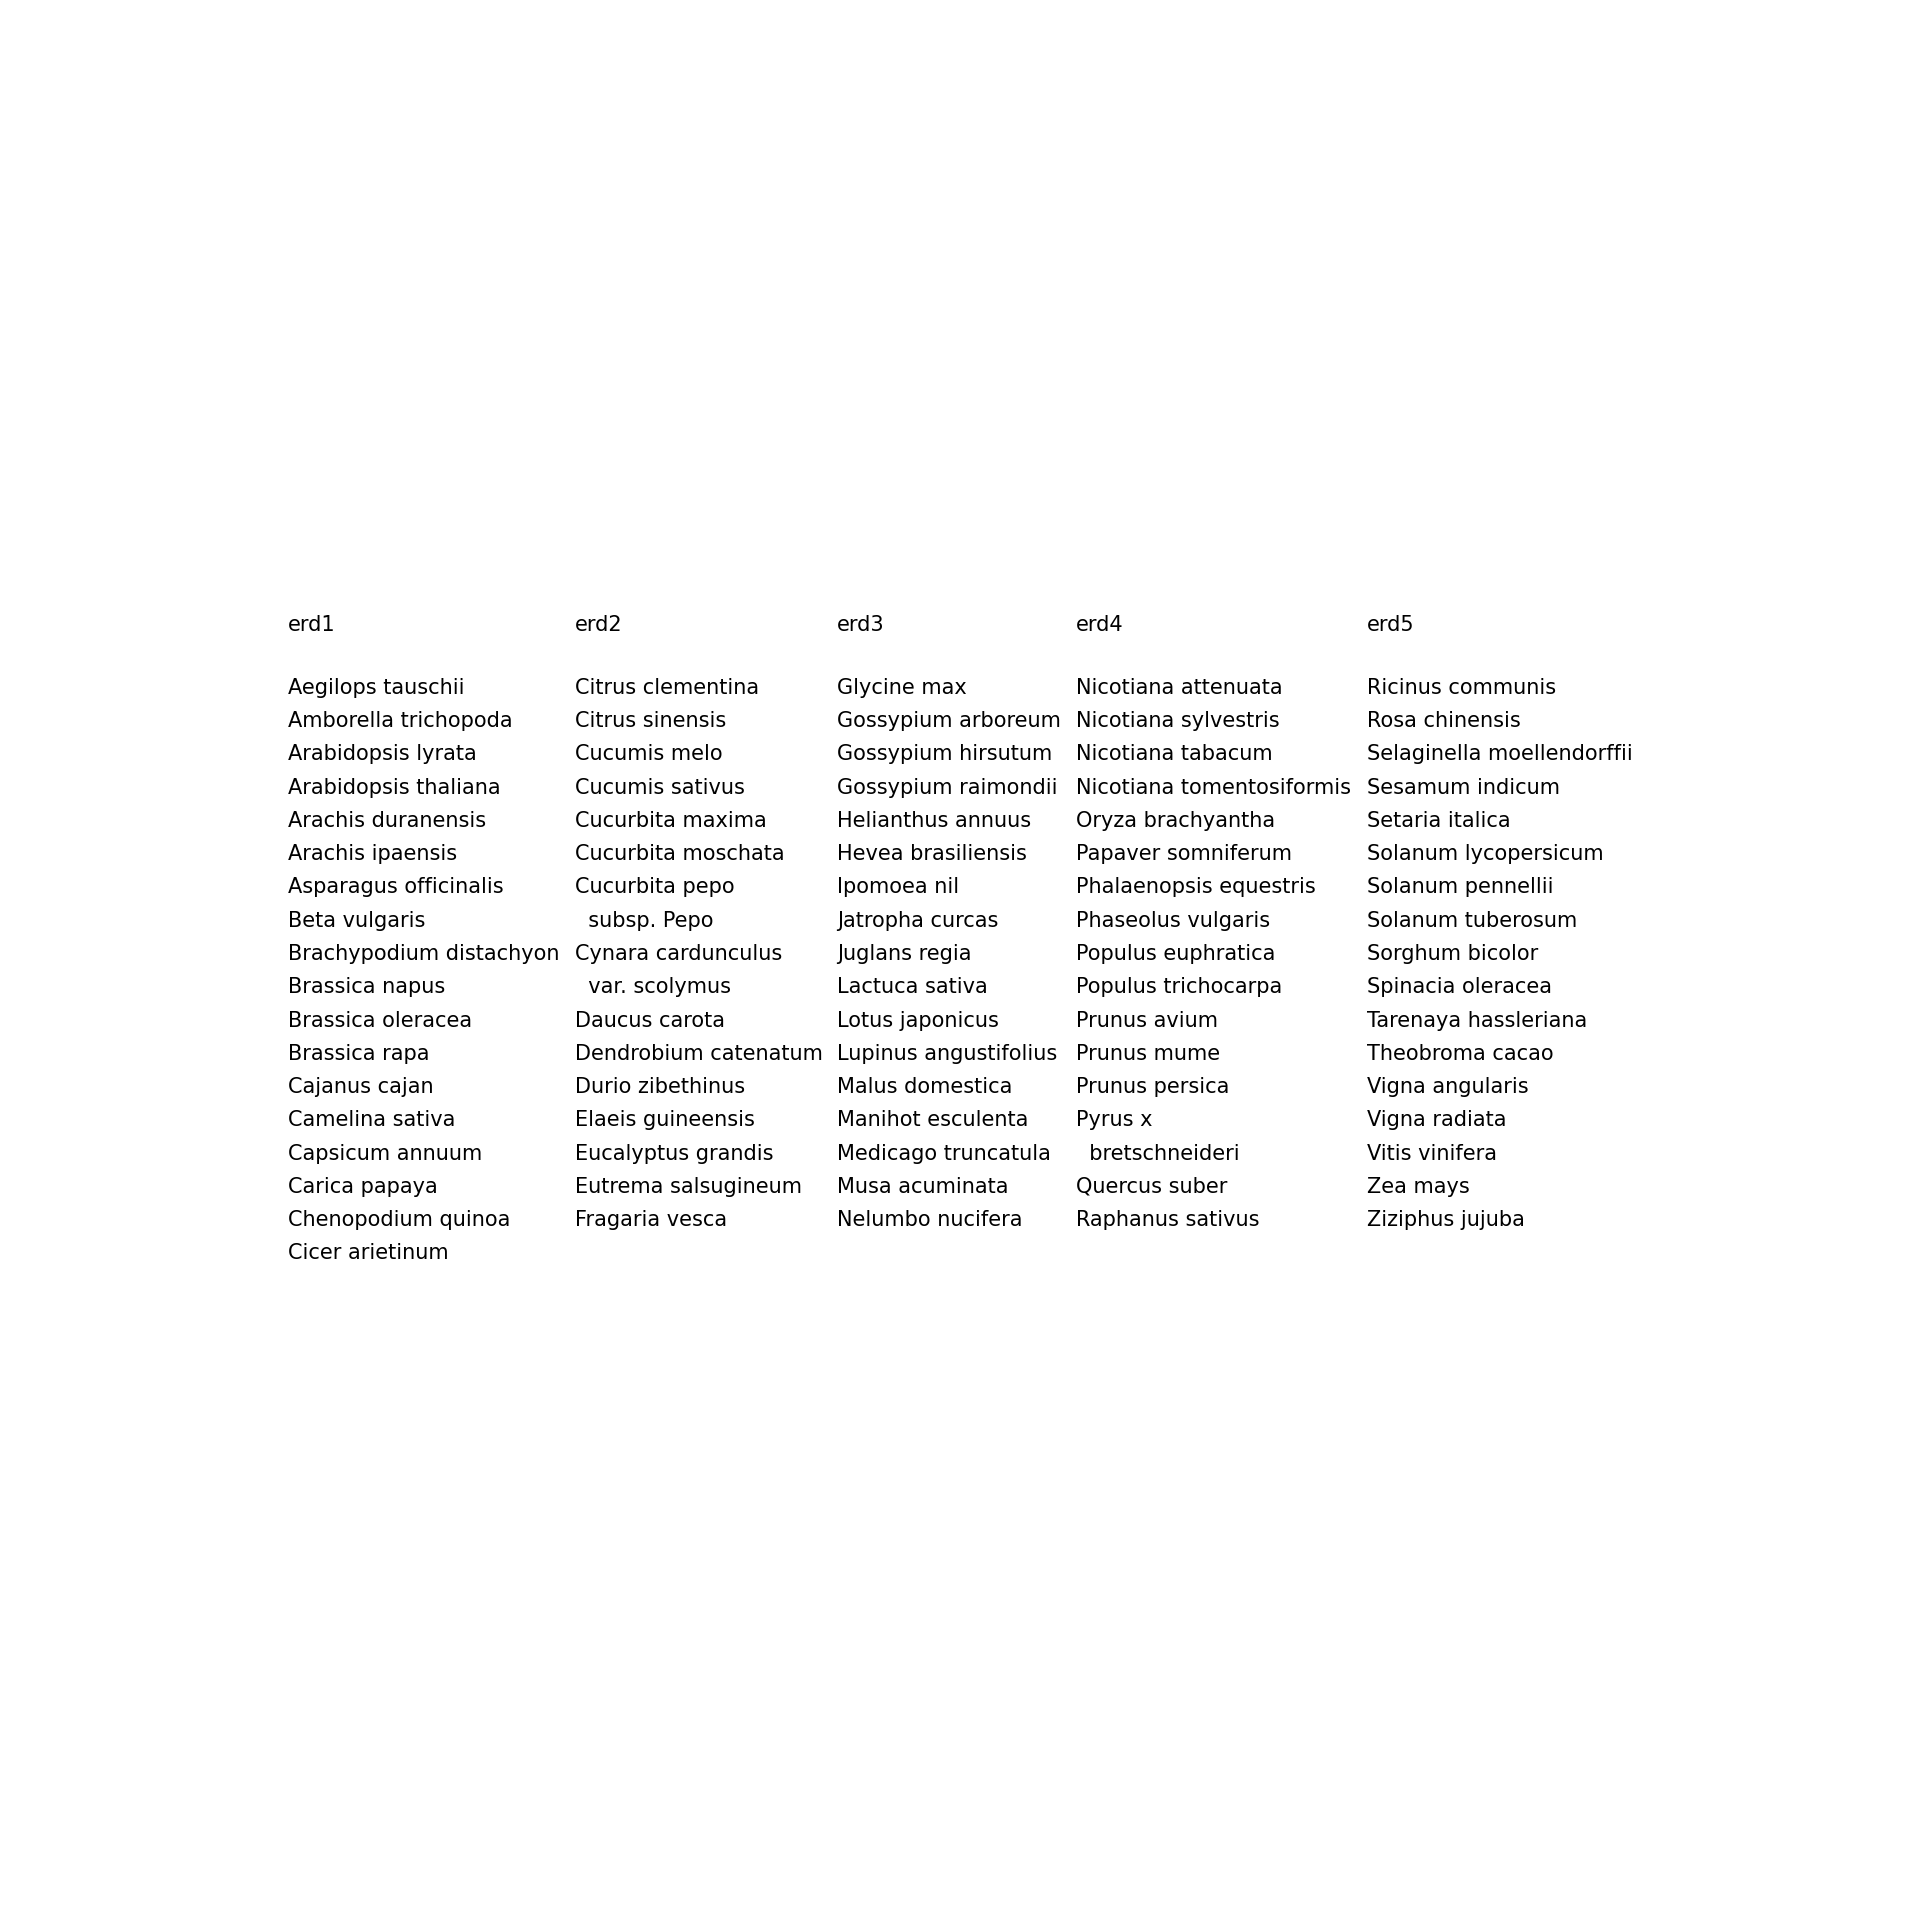
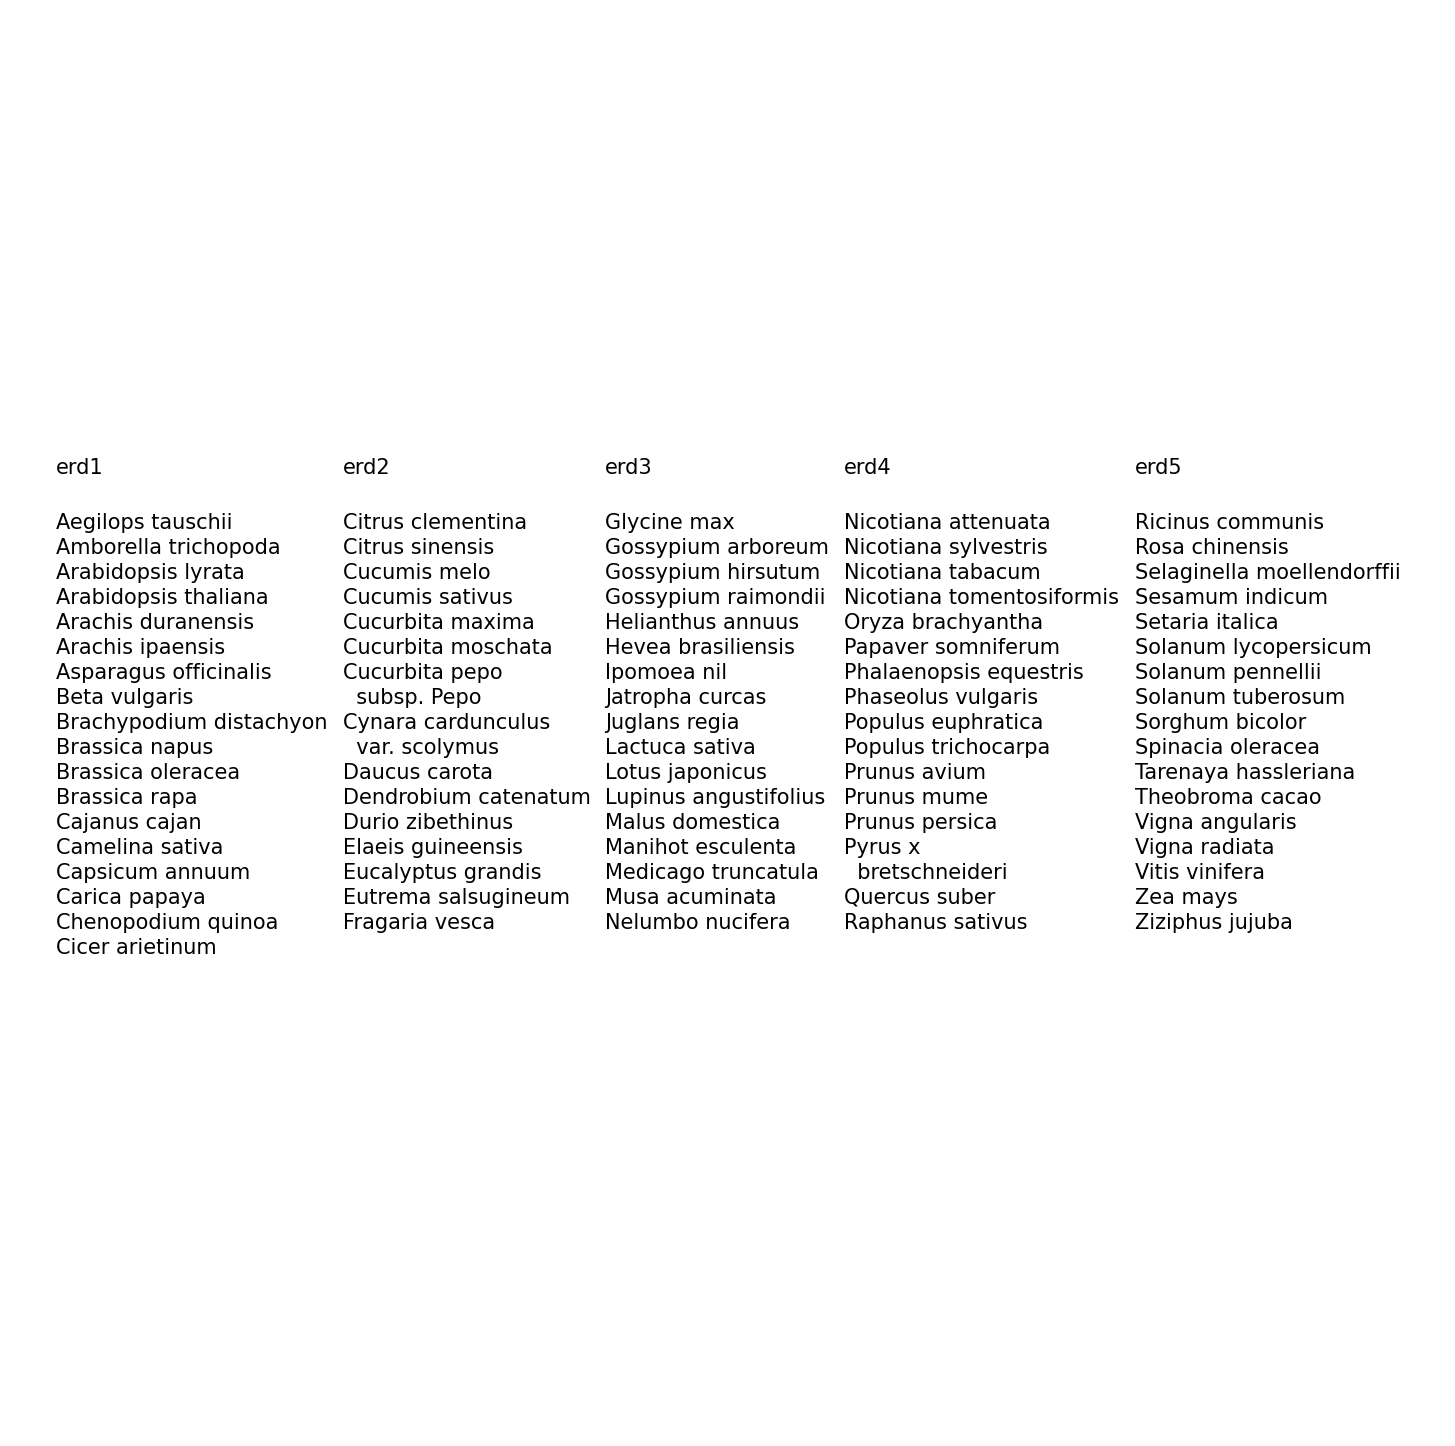
.

Changed region(s): [[0.0309, 0.3112, 0.9588, 0.6846]]

diff --git a/projects/current/flavonoid/data-rep/data-rep.py b/projects/current/flavonoid/data-rep/data-rep.py
@@ -40,20 +40,23 @@ def tab3(df):
         lit = df.loc[df[comp] == 'lit'][comp].index.values.tolist()
         rel = df.loc[df[comp] == 'rel'][comp].index.values.tolist()
 
+        kegg = mod_list(kd + lk + rk)
+
         for i in range(len(rk)): rk[i] = rk[i] + '*'
         for i in range(len(rel)): rel[i] = rel[i] + '*'
 
-        kegg = mod_list(kd + lk + rk)
         lit = mod_list(lit + lk + rk + rel)
-        ln = len(kegg) // 4
+        both = mod_list(lk + rk)
 
         kegg = np.array_split(np.array(kegg), 5)
         lit = np.array_split(np.array(lit), 5)
-
+        both = np.array_split(np.array(both), 5)
         mxlen = max(len(kegg[0]), len(kegg[1]), len(kegg[2]), len(kegg[3]), len(kegg[4]))
         mxlen2 = max(len(lit[0]), len(lit[1]), len(lit[2]), len(lit[3]), len(lit[4]))
+        mxlen3 = max(len(both[0]), len(both[1]), len(both[2]), len(both[3]), len(both[4]))
         comp_df = pd.DataFrame({'del': np.arange(mxlen)})
         comp_df2 = pd.DataFrame({'del': np.arange(mxlen2)})
+        comp_df3 = pd.DataFrame({'del': np.arange(mxlen3)})
         cnt = 1
         for k in kegg:
             k = k.tolist() + gen_empty(mxlen - len(k.tolist()))
@@ -68,8 +71,15 @@ def tab3(df):
             cnt += 1
         comp_df2 = comp_df2.drop(columns=['del'])
 
+        cnt = 1
+        for b in both:
+            b = b.tolist() + gen_empty(mxlen3 - len(b.tolist()))
+            comp_df3[comp.lower() + str(cnt) + '\n\n\n'] = b
+            cnt += 1
+        comp_df3 = comp_df3.drop(columns=['del'])
+
         print(comp_df)
-        plt.figure(figsize=(8, 8))
+        plt.figure(figsize=(6, 6))
         tab = plt.table(cellText=comp_df.values, colLabels=comp_df.columns, loc='center', cellLoc='left', colLoc='left',
                         edges='open')
         plt.axis('off')
@@ -83,7 +93,7 @@ def tab3(df):
         for col in range(len(comp_df.columns)): tab.auto_set_column_width(col)
         plt.savefig('tab3/kegg-' + comp.lower() + '.png', bbox_inches='tight', dpi=300)
 
-        plt.figure(figsize=(8, 8))
+        plt.figure(figsize=(6, 6))
         tab = plt.table(cellText=comp_df2.values, colLabels=comp_df2.columns, loc='center', cellLoc='left',
                         colLoc='left', edges='open')
         plt.axis('off')
@@ -96,6 +106,21 @@ def tab3(df):
                 cell.set_height(0.018)
         for col in range(len(comp_df2.columns)): tab.auto_set_column_width(col)
         plt.savefig('tab3/lit-' + comp.lower() + '.png', bbox_inches='tight', dpi=300)
+
+        if len(comp_df3):
+            plt.figure(figsize=(6, 6))
+            tab = plt.table(cellText=comp_df3.values, colLabels=comp_df3.columns, loc='center', cellLoc='left',
+                            colLoc='left', edges='open')
+            plt.axis('off')
+            tab.auto_set_font_size(False)
+            for key, cell in tab.get_celld().items():
+                if key[0] != 0 or key[1] != -1:
+                    cell.set_fontsize(5)
+                    cell.PAD = 0.03
+                    cell.set_text_props(linespacing=1)
+                    cell.set_height(0.018)
+            for col in range(len(comp_df3.columns)): tab.auto_set_column_width(col)
+            plt.savefig('tab3/both-' + comp.lower() + '.png', bbox_inches='tight', dpi=300)
 
 
 def tab2(df):
